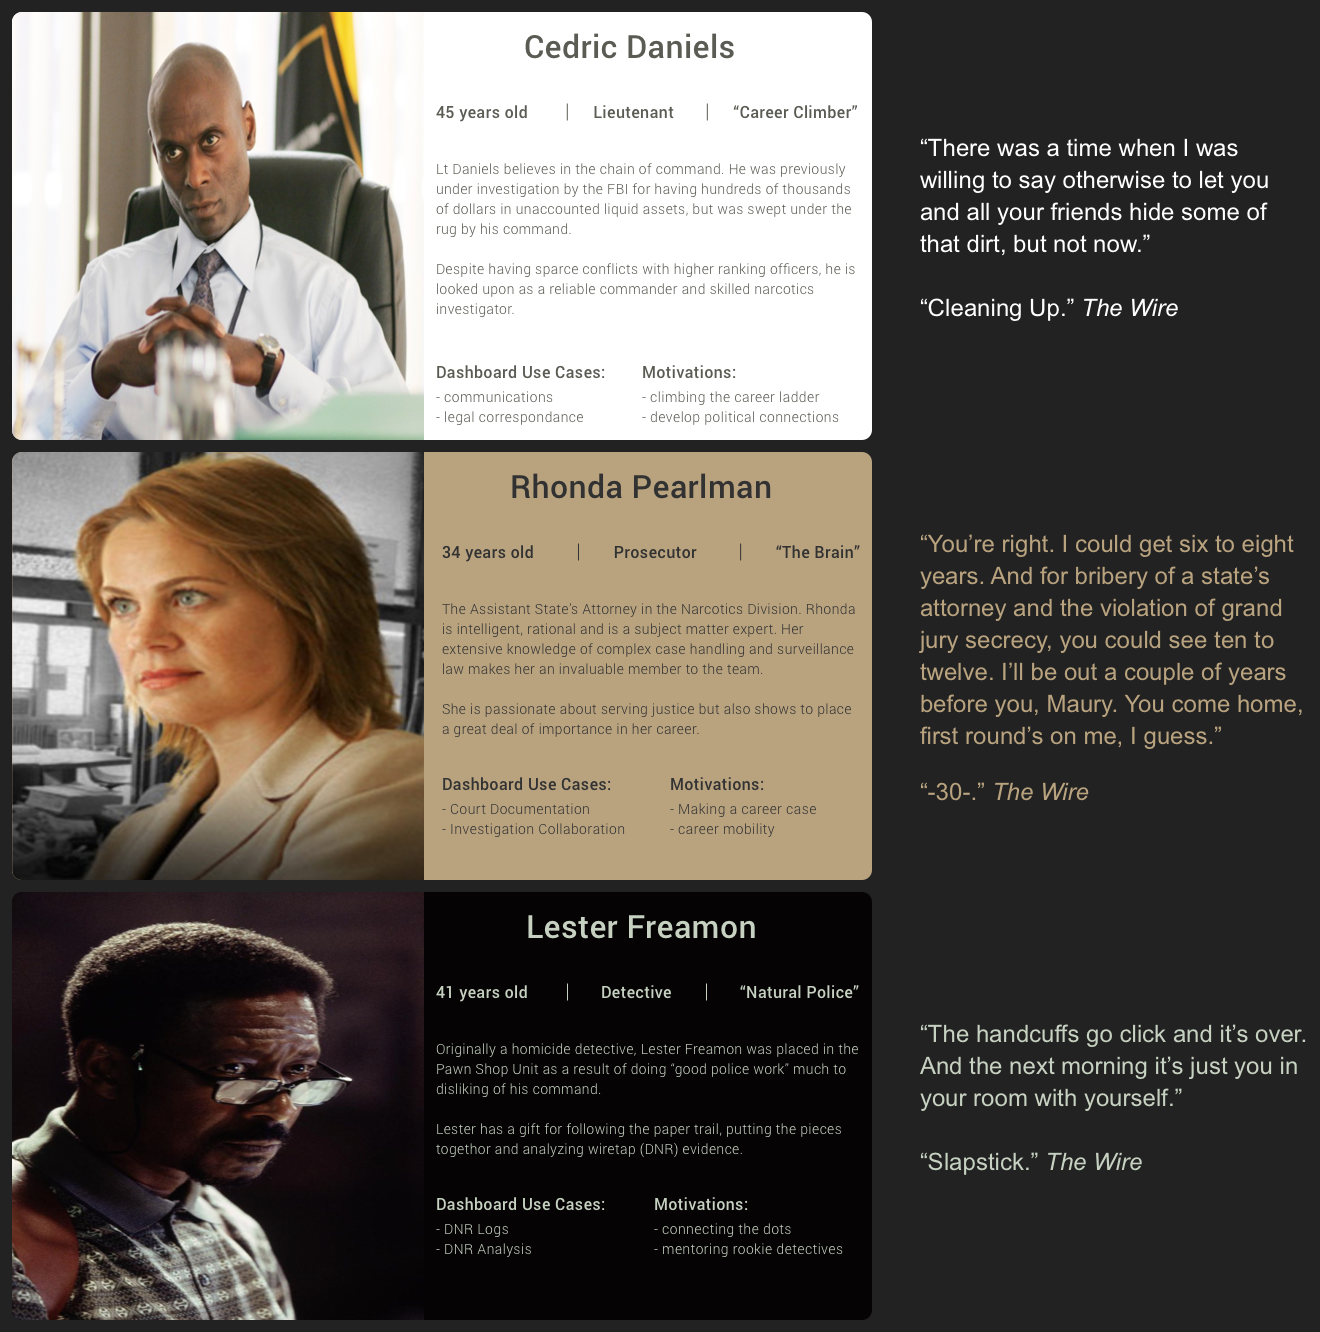
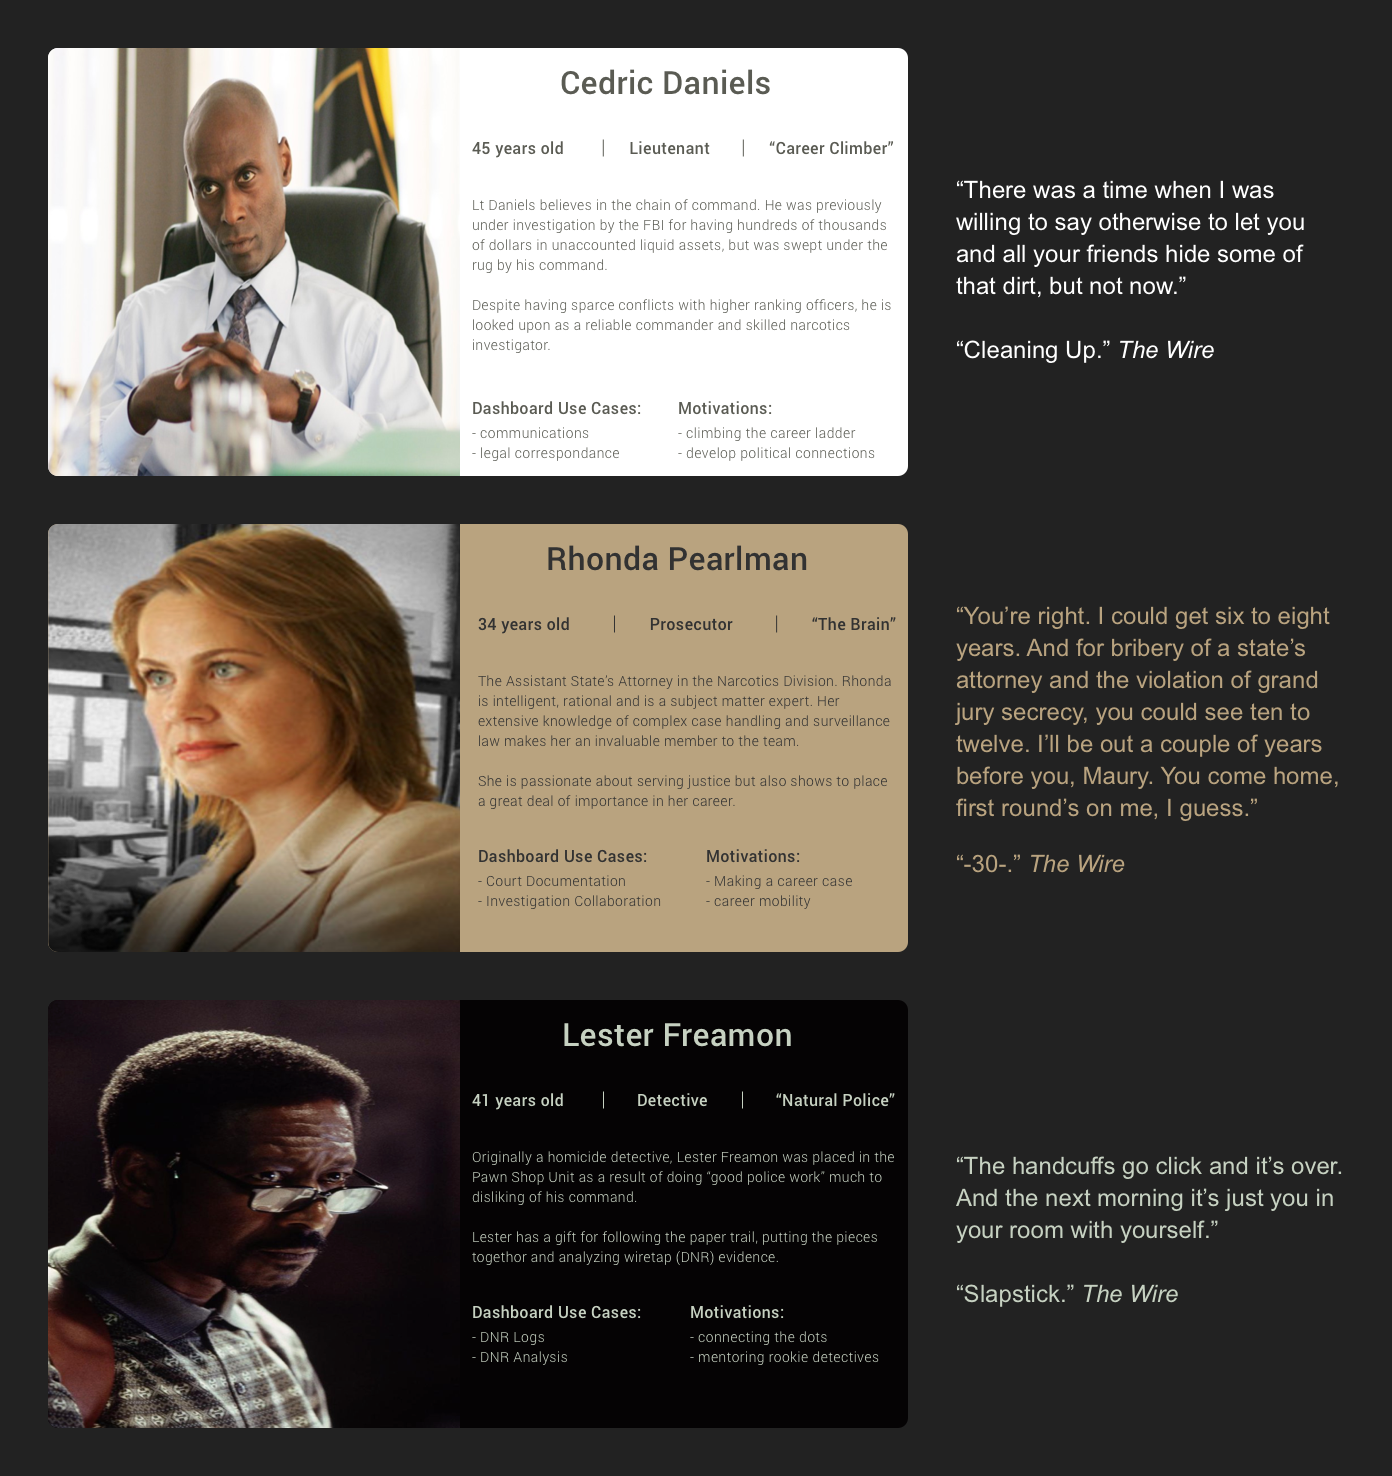
save

Changed region(s): [[0.0, 0.0, 0.9939, 1.0]]

diff --git a/assets/css/DNR-CSS-Mast/dnr-media.css b/assets/css/DNR-CSS-Mast/dnr-media.css
@@ -1,99 +1,36 @@
 @media only screen and (max-width: 500px) {
-  h1{
-    font-size:32pt;
-    text-align: left;
-    width:90%;
-    margin:auto;
-    line-height:50px;
-    font-family: 'Work Sans', sans-serif;
+  body{
+    font-size:16pt;
   }
   header{
-    background: linear-gradient(90deg, #292929 0%, #525252 50%, #292929 100%);
-    padding:20vh 0 20vh 0;
+    text-align: left;
   }
-  /*---------First ROW ------------*/
-  #row-content--one{
-    display:flex;
-    flex-direction: column;
+  h1{
+    text-align: left;
+    line-height: 40px;
+  }
+  h2{
+    text-align: left;
+    font-size:24pt;
+  }
+  h3{
+    text-align: left;
+    font-size:18pt;
+  }
+
+  .bold{
+    font-size:16.5pt;
+  }
+  .section-all{
+
+  }
+  #home-container-content{
     width:90%;
   }
-
-  #row-content--one > div:nth-child(1){
-    margin-top:1em;
-  }
-
-  .one-ul{
-    padding-left:0;
-  }
-  .row-content{
-    width:90%;
-  }
-
-  .container-row{
-    padding:2em 0 2em 0;
-  }
-
-  /*---------SECOND ROW ------------*/
-  #row-content--two{
-    display:flex;
-    flex-direction: column;
-    width:90%;
-  }
-
-  #row-content--two > div:nth-child(2){
-    margin-top:1em;
-  }
-
-  .two-ul{
-    padding-left:0;
-  }
-
-  .two-thumbnail{
-    height:28px;
-    width:28px;
-    border-radius:50%;
-  }
-
-
-  /*---------THIRD ROW ------------*/
-
-  .three-persona{
-    padding:4em 0 4em 0;
-  }
-  .direct-quotes{
-    font-size:16pt;
-    font-weight:150;
-  }
-  #three-persona--daniels{
-    display: grid;
-    grid-template-columns: 1fr;
-    grid-gap: 0em;
-  }
-  #three-persona--daniels > div > img{
-    box-shadow: 0px 3px 5px 2px rgba(0,0,0,0.18);
-    border-radius:2px;
-  }
-
-  #three-persona--rhonda{
-    display: flex;
-    flex-direction:column-reverse;
-  }
-
-  #three-persona--rhonda > div > img{
+  #section-introduction{
     width:100%;
-    box-shadow: 0px 3px 5px 2px rgba(0,0,0,0.18);
-    border-radius:2px;
   }
-
-
-  #three-persona--freamon{
-    display: grid;
-    grid-template-columns: 1fr;
-    grid-gap: 0em;
-  }
-  #three-persona--freamon > div > img{
+  #section-personas > div{
     width:100%;
-    box-shadow: 0px 3px 5px 2px rgba(0,0,0,0.18);
-    border-radius:2px;
   }
 }

diff --git a/Projects/dnr.html b/Projects/dnr.html
@@ -5,17 +5,12 @@
 <meta charset="UTF-8">
 <meta name="viewport" content="width=device-width, initial-scale=1">
 <title>Product Design Portfolio</title>
-
-  <link href="https://fonts.googleapis.com/css?family=Lato:300|Raleway:800&display=swap" rel="stylesheet">
-
-
+<link href="https://fonts.googleapis.com/css?family=Lato:300|Raleway:800&display=swap" rel="stylesheet">
 <link rel="stylesheet" type="text/css" href="../assets/css/reset.css">
 <link rel ="stylesheet" type="text/css" href="../assets/css/DNR-CSS-Mast/dnr.css">
 <link rel ="stylesheet" type="text/css" href="../assets/css/DNR-CSS-Mast/dnr-media.css">
 <link rel ="stylesheet" type="text/css" href="../assets/css/Nav-CSS-Mast/navbar.css">
 <link rel ="stylesheet" type="text/css" href="../assets/css/Nav-CSS-Mast/navbar-media.css">
-<link rel ="stylesheet" type="text/css" href="../assets/css/Footer-CSS-Mast/footer.css">
-<link rel ="stylesheet" type="text/css" href="../assets/css/Footer-CSS-Mast/footer-media.css">
 <script type="text/javascript" src="http://ajax.googleapis.com/ajax/libs/jquery/1.6.2/jquery.min.js"></script>
 
 
@@ -139,8 +134,8 @@
     </footer>
 	</div>
 </body>
-<div style = "display:none;" class="">
+<!-- <div style = "display:none;" class="">
   <a href="https://icons8.com/icon/48841/instagram">Instagram icon by Icons8</a>
   <a href="https://icons8.com/icon/446/linkedin">LinkedIn icon by Icons8</a>
-</div>
+</div> -->
 </html>

diff --git a/assets/css/DNR-CSS-Mast/dnr.css b/assets/css/DNR-CSS-Mast/dnr.css
@@ -3,7 +3,6 @@ body{
   color:#000;
   margin:0 auto;
   font-family: 'Lato', sans-serif;
-  font-size:14pt;
 }
 header{
   text-align: center;
@@ -39,12 +38,6 @@ h3{
   margin-top:4em;
 }
 
-figcaption{
-  font-family: 'Lato', sans-serif;
-  font-size:14pt;
-  line-height: 26px;
-  display:none;
-}
 footer{
   width:100%;
   padding:6em 0 4em 0;
@@ -52,8 +45,13 @@ footer{
   background-color:#fefefe;
   color:#000;
   font-size:12pt;
-  z-index:2;
-  position:absolute;
+}
+
+figcaption{
+  font-family: 'Lato', sans-serif;
+  font-size:14pt;
+  line-height: 26px;
+  display:none;
 }
 p{
   line-height:32px;
@@ -87,10 +85,11 @@ a{
 
 
 #home-container-all{
+  margin: auto;
 }
 #home-container-content{
   width:66.7%;
-  margin: 9em auto 0 auto;
+  margin:auto;
 }
 
 

diff --git a/index.html b/index.html
@@ -11,8 +11,6 @@
   <link rel="stylesheet" type="text/css" href="assets/css/reset.css">
   <link rel ="stylesheet" type="text/css" href="assets/css/Land-CSS-Mast/land.css">
   <link rel ="stylesheet" type="text/css" href="assets/css/Land-CSS-Mast/land-media.css">
-  <link rel ="stylesheet" type="text/css" href="assets/css/Footer-CSS-Mast/footer.css">
-  <link rel ="stylesheet" type="text/css" href="assets/css/Footer-CSS-Mast/footer-media.css">
   <link rel ="stylesheet" type="text/css" href="assets/css/Nav-CSS-Mast/navbar.css">
   <link rel ="stylesheet" type="text/css" href="assets/css/Nav-CSS-Mast/navbar-media.css">
   <link rel ="stylesheet" type="text/css" href="assets/css/Body-Container-CSS/body.css">

diff --git a/assets/css/Land-CSS-Mast/land.css b/assets/css/Land-CSS-Mast/land.css
@@ -18,7 +18,6 @@ footer{
   color:#000;
   font-size:12pt;
   z-index:2;
-  position:absolute;
 }
 
 a{
@@ -83,7 +82,7 @@ p{
 
 
 #case-studies--two{
-  background:#9A46F1;
+  background:#FF781F;
 }
 
 
@@ -104,8 +103,8 @@ p{
   color:#fff;
 }
 .case-studies--card:hover > img{
-  opacity:.2;
+  opacity:.1;
 }
 .case-studies--card:hover > h2{
-  opacity:.8;
+  opacity:1;
 }

diff --git a/assets/css/Nav-CSS-Mast/navbar.css b/assets/css/Nav-CSS-Mast/navbar.css
@@ -3,6 +3,7 @@ nav{
   grid-template-columns:1fr 1fr;
   width:90%;
   margin:auto;
+  padding:.5em 0 .5em 0;
 }
 
 label{
@@ -11,8 +12,7 @@ label{
   display:none;
 }
 #logo{
-  margin:1em 0 0 0;
-  height:40px;
+  height:32px;
   float:
 }
 
@@ -21,7 +21,6 @@ label{
 }
 
 #menu{
-  margin:1.5em 0 0 0;
   float: right;
 }
 

diff --git a/assets/css/Nav-CSS-Mast/navbar-media.css b/assets/css/Nav-CSS-Mast/navbar-media.css
@@ -21,13 +21,12 @@
     margin: auto;
     z-index:1;
     background-color:#fff;
-    padding:1em 0 .5em 0;
+    margin:0;
+    padding:30px 0 30px 0;
     top:0;
   }
   #logo{
-    height:40px;
     margin-left:5%;
-    margin-top:.25em;
   }
 
   #home-container-all{

diff --git a/assets/css/Land-CSS-Mast/land-media.css b/assets/css/Land-CSS-Mast/land-media.css
@@ -11,14 +11,13 @@
   h2{
     font-size:16pt;
   }
-  footer{margin-top:0;}
 
 
   #headline{
     width:90%;
     margin-left:5%;
     margin-top:12em;
-    text-align:left;;
+    text-align:left;
   }
   #headline > p{
     line-height: 32px;

diff --git a/assets/css/About-CSS-Mast/about-me.css b/assets/css/About-CSS-Mast/about-me.css
@@ -27,7 +27,6 @@ footer{
   background-color:#fefefe;
   color:#000;
   font-size:12pt;
-  z-index:2;
   position:absolute;
 
 }
